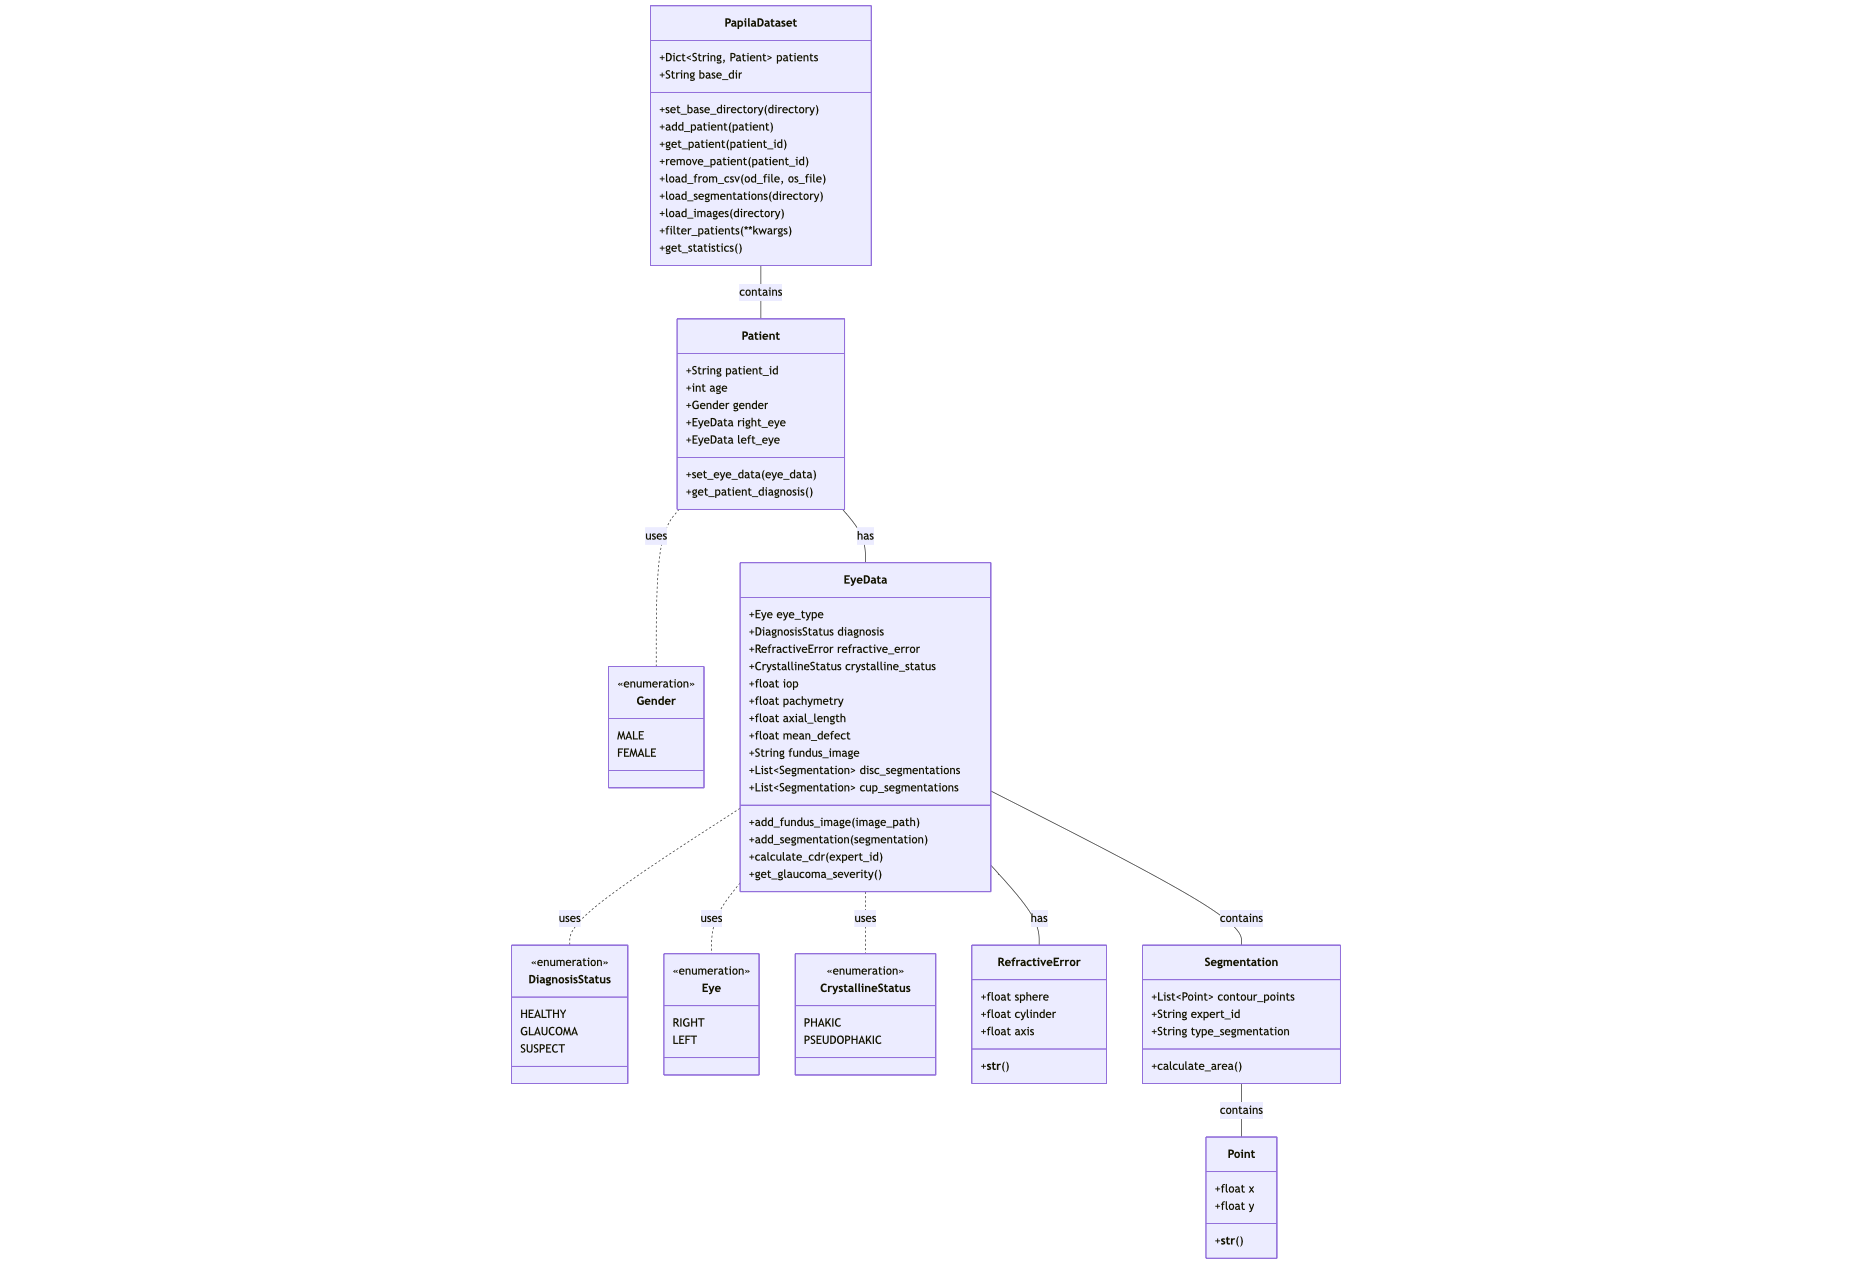
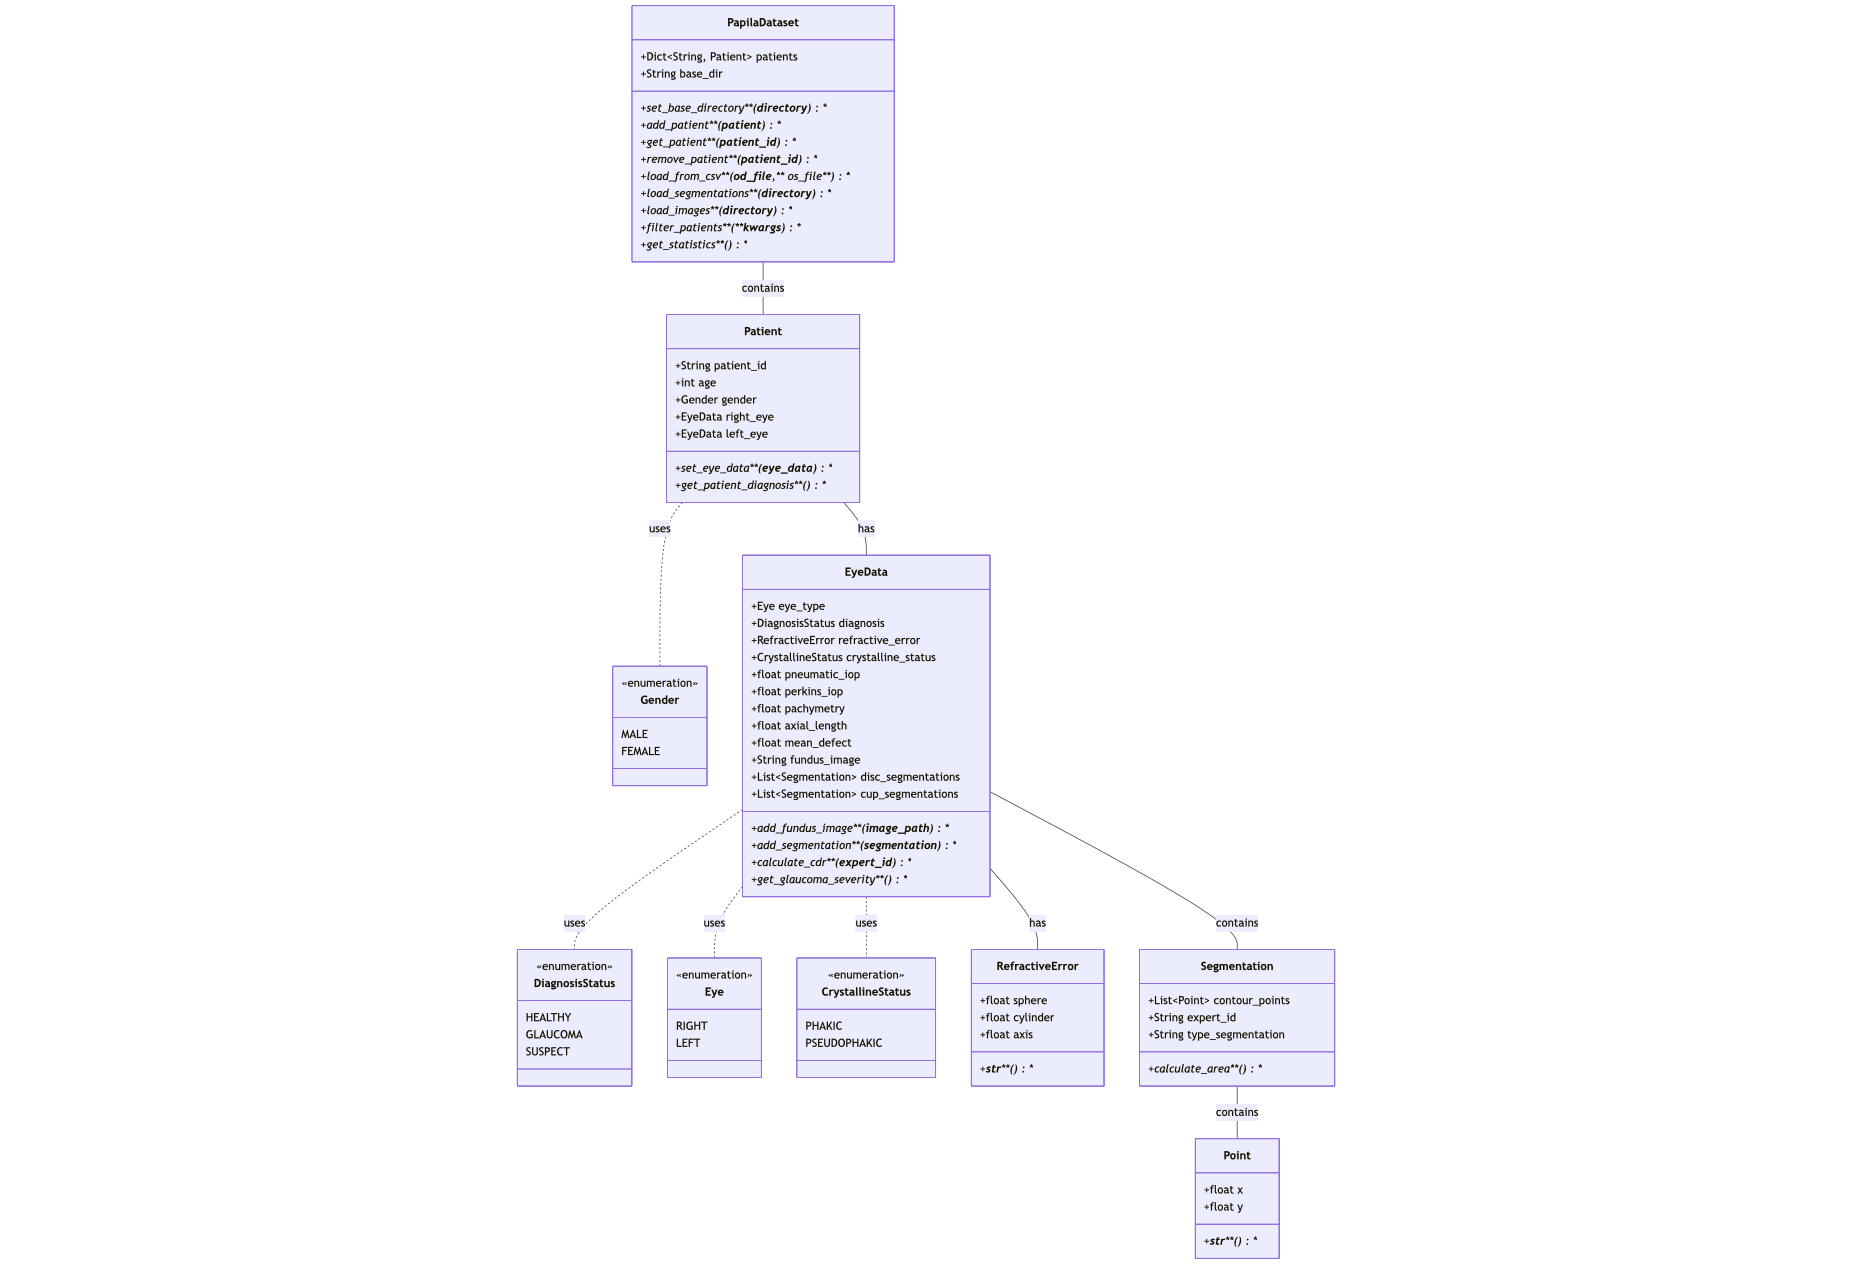
feat: README actualizado y clases para incluir mapeo del dataset PAPILA y ajustar parámetros de presión intraocular

diff --git a/papila_classes.py b/papila_classes.py
@@ -70,7 +70,8 @@ class EyeData:
             diagnosis: DiagnosisStatus,
             refractive_error: Optional[RefractiveError] = None,
             crystalline_status: Optional[CrystallineStatus] = None,
-            iop: Optional[float] = None,
+            pneumatic_iop: Optional[float] = None,
+            perkins_iop: Optional[float] = None,
             pachymetry: Optional[float] = None,
             axial_length: Optional[float] = None,
             mean_defect: Optional[float] = None
@@ -79,7 +80,8 @@ class EyeData:
         self.diagnosis = diagnosis
         self.refractive_error = refractive_error
         self.crystalline_status = crystalline_status
-        self.iop = iop
+        self.pneumatic_iop = pneumatic_iop
+        self.perkins_iop = perkins_iop
         self.pachymetry = pachymetry
         self.axial_length = axial_length
         self.mean_defect = mean_defect
@@ -275,7 +277,8 @@ if __name__ == "__main__":
         diagnosis=DiagnosisStatus.GLAUCOMA,
         refractive_error=RefractiveError(-1.5, -0.75, 180),
         crystalline_status=CrystallineStatus.PHAKIC,
-        iop=25.0,
+        pneumatic_iop=25.0,
+        perkins_iop=24.0,
         pachymetry=545.0,
         axial_length=24.5,
         mean_defect=-8.5
@@ -286,7 +289,8 @@ if __name__ == "__main__":
         diagnosis=DiagnosisStatus.SUSPECT,
         refractive_error=RefractiveError(-1.25),
         crystalline_status=CrystallineStatus.PHAKIC,
-        iop=22.0,
+        pneumatic_iop=22.0,
+        perkins_iop=21.0,
         pachymetry=540.0,
         axial_length=24.3,
         mean_defect=-2.5

diff --git a/README.md b/README.md
@@ -27,6 +27,24 @@ Las principales clases son:
 - **Segmentation**: Representa las segmentaciones del disco óptico y la copa óptica
 - **Point**: Representa puntos 2D para las segmentaciones
 
+## Mapeo Dataset PAPILA - Modelo de Clases
+
+| Columna Dataset     | Clase             | Atributo             | Descripción                                       |
+|---------------------|-------------------|----------------------|---------------------------------------------------|
+| ID                  | `Patient`         | `patient_id`         | Identificador único del paciente                  |
+| Age                 | `Patient`         | `age`                | Edad del paciente en años                         |
+| Gender              | `Patient`         | `gender`             | Género: MALE(0) o FEMALE(1)                       |
+| Diagnosis           | `EyeData`         | `diagnosis`          | HEALTHY(0), GLAUCOMA(1), SUSPECT(2)               |
+| dioptre_1           | `RefractiveError` | `sphere`             | Potencia esférica en dioptrías                    |
+| dioptre_2           | `RefractiveError` | `cylinder`           | Potencia cilíndrica                               |
+| astigmatism         | `RefractiveError` | `axis`               | Eje del astigmatismo en grados                    |
+| Phakic/Pseudophakic | `EyeData`         | `crystalline_status` | PHAKIC(0), PSEUDOPHAKIC(1)                        |
+| Pneumatic           | `EyeData`         | `pneumatic_iop`      | Presión intraocular (método Neumático en mmHg)    |
+| Perkins             | `EyeData`         | `perkins_iop`        | Presión intraocular (método Perkins en mmHg)      |
+| Pachymetry          | `EyeData`         | `pachymetry`         | Espesor corneal en μm                             |
+| Axial_Length        | `EyeData`         | `axial_length`       | Longitud axial del ojo en mm                      |
+| VF_MD               | `EyeData`         | `mean_defect`        | Índice de desviación media del campo visual (dB)  |
+
 ## Funcionalidades
 
 El sistema permite:
@@ -82,7 +100,8 @@ patient = Patient(
 right_eye = EyeData(
     eye_type=Eye.RIGHT,
     diagnosis=DiagnosisStatus.GLAUCOMA,
-    iop=25.0,
+    pneumatic_iop=25.0,
+    perkins_iop=24.0,
     pachymetry=545.0,
     axial_length=24.5,
     mean_defect=-8.5
